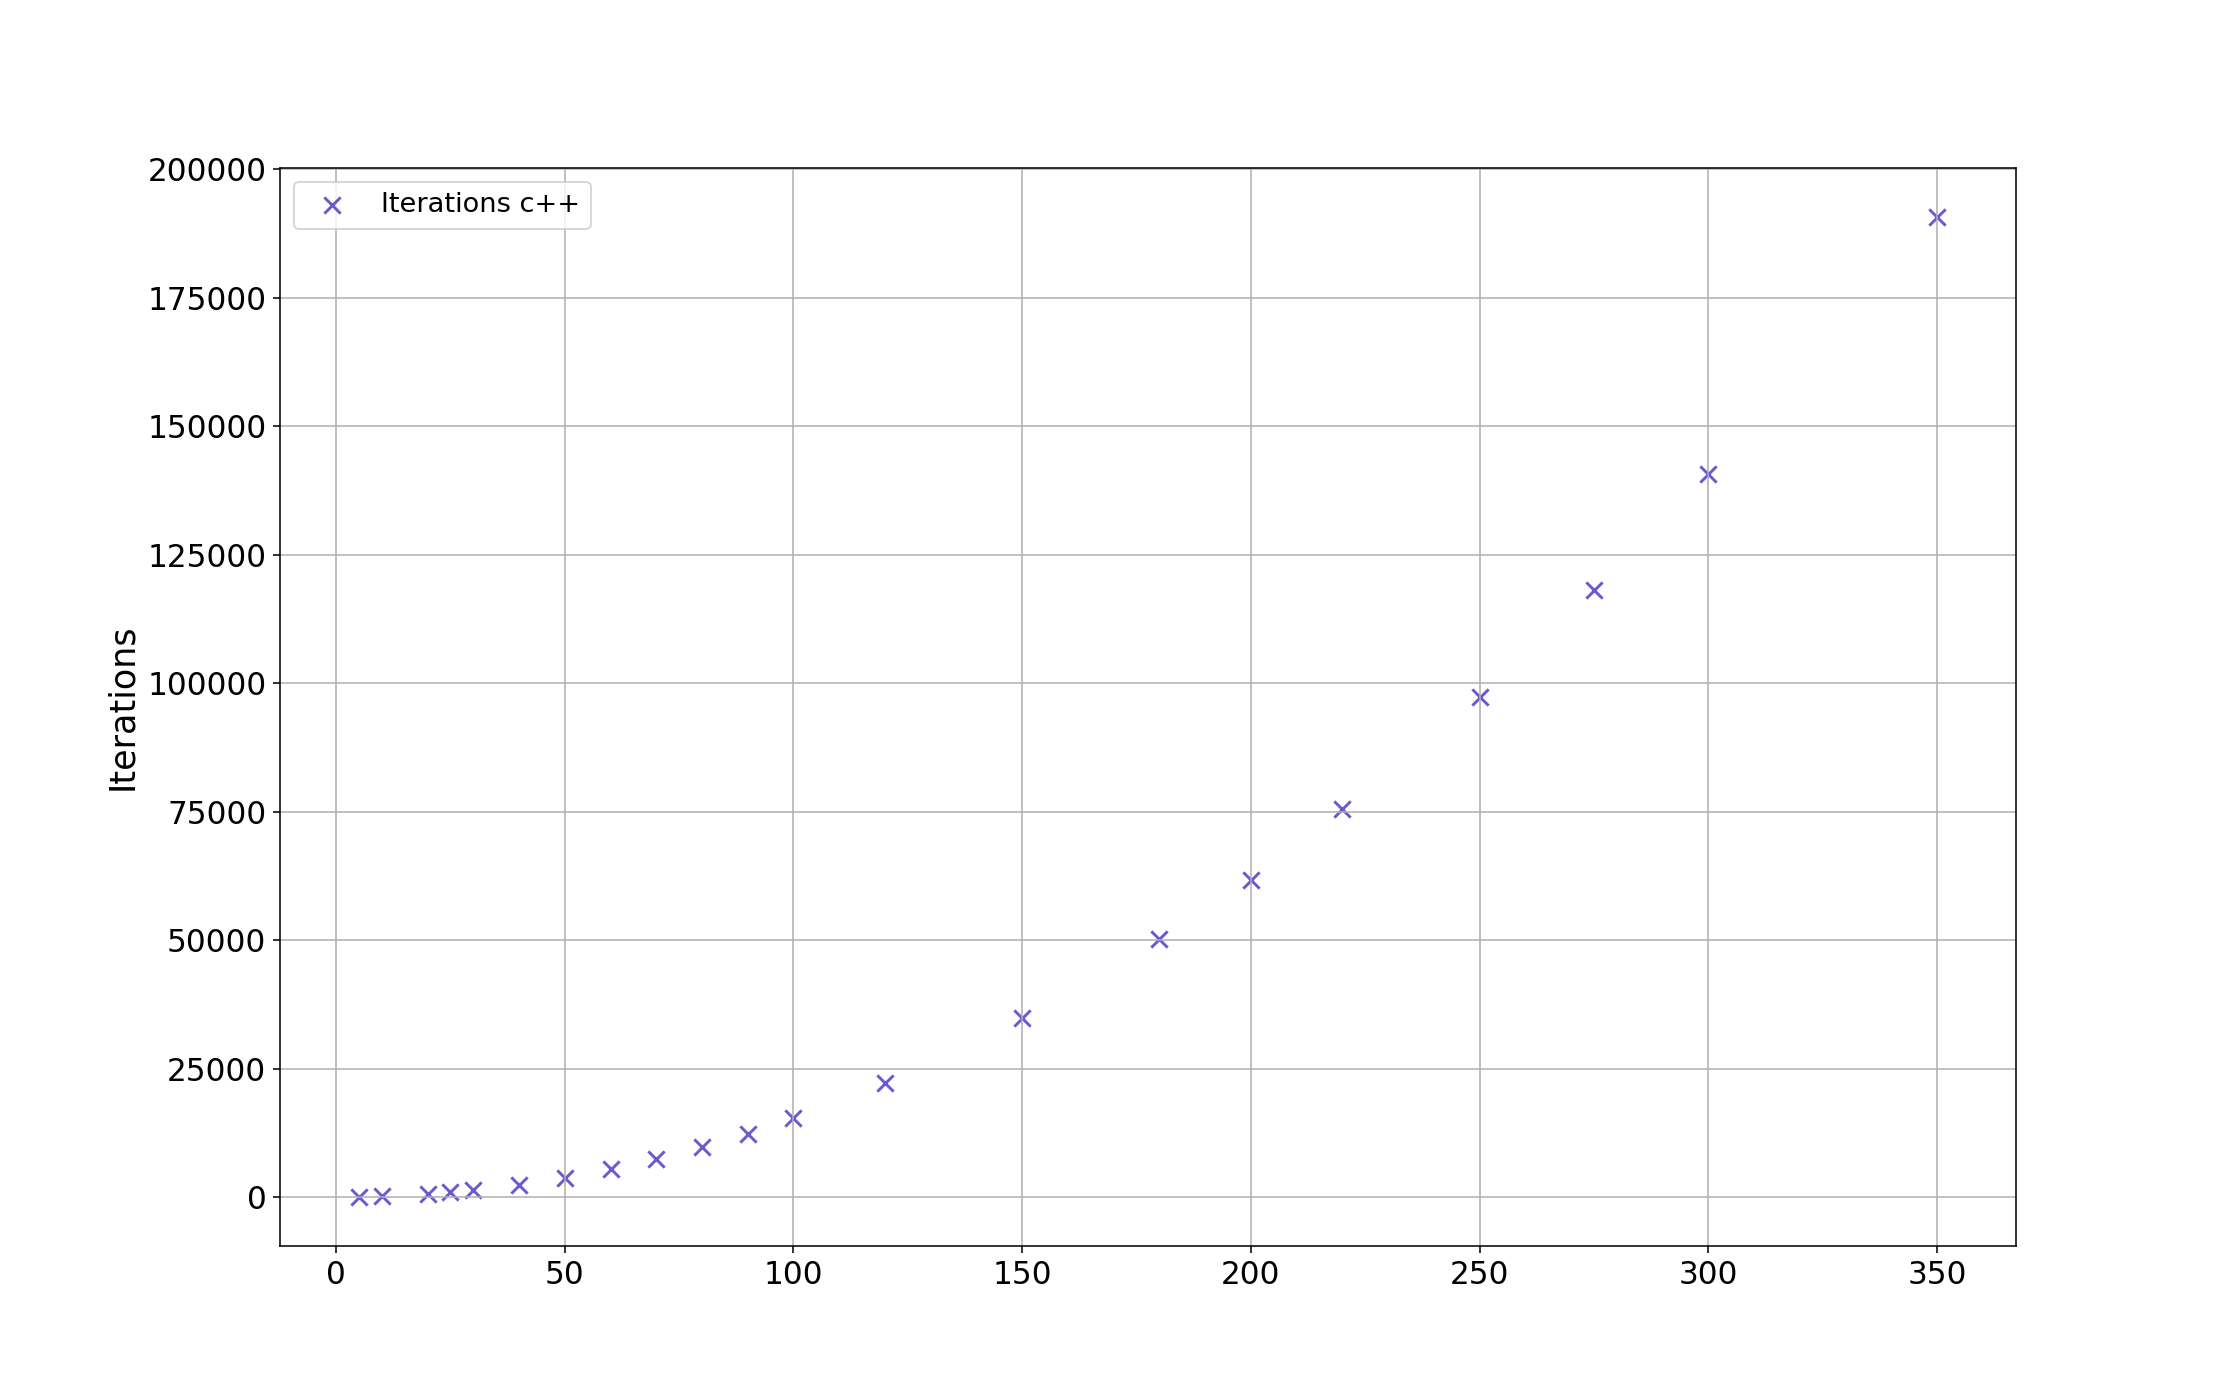
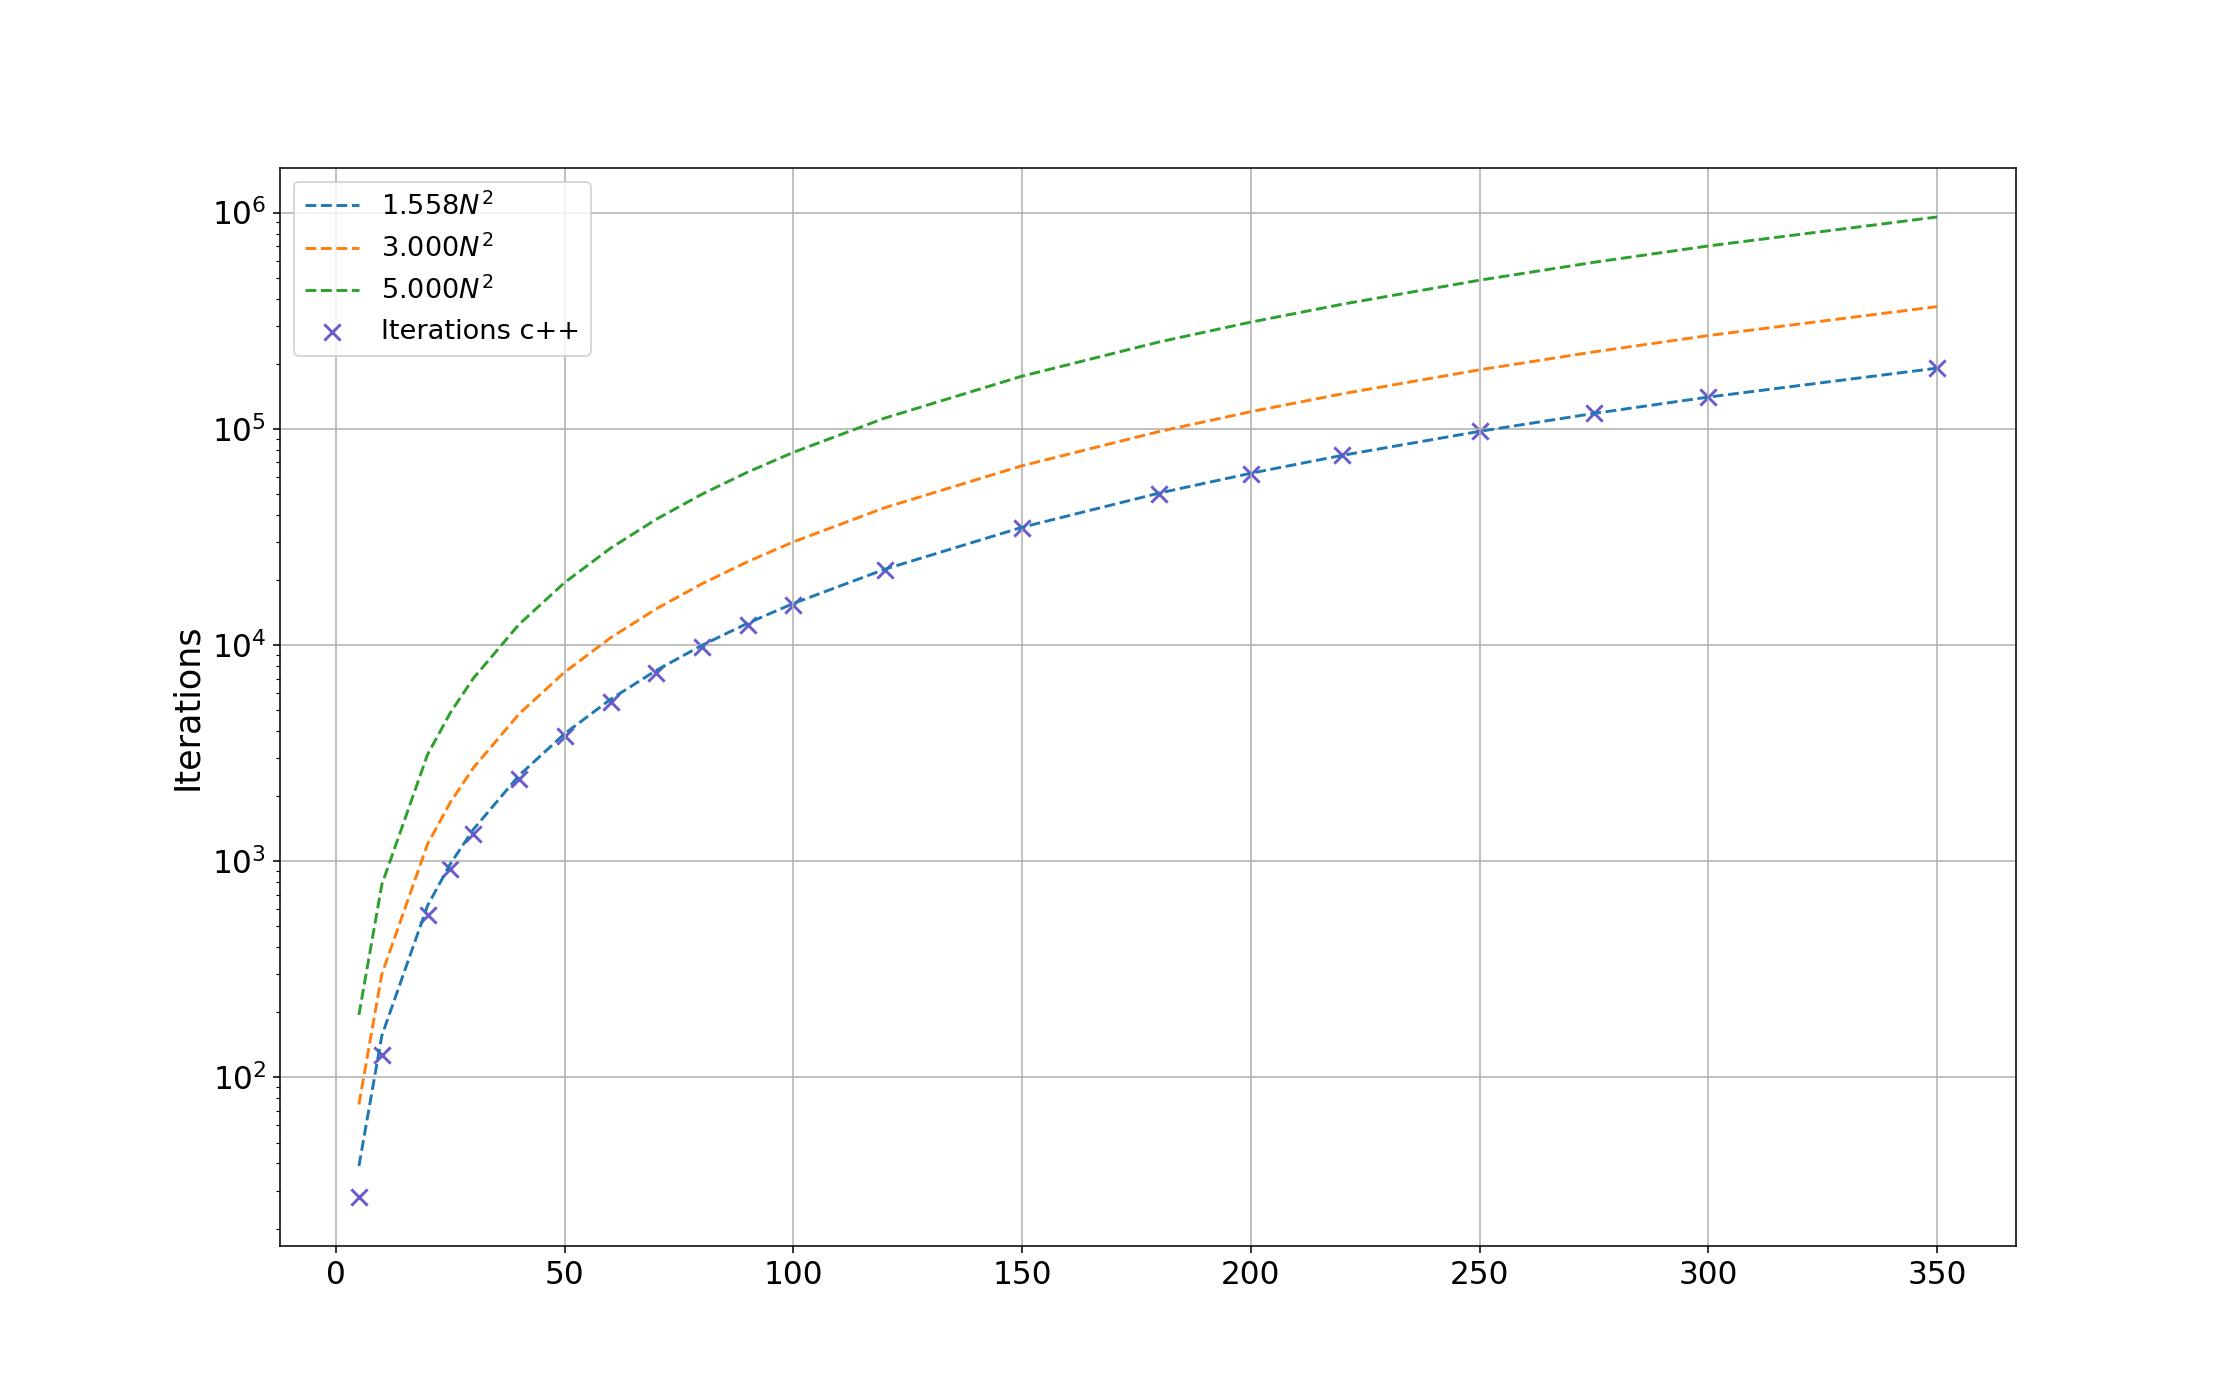
Writing on results and minor updates to postprocess.py

diff --git a/Project2/latex/results.tex b/Project2/latex/results.tex
@@ -3,16 +3,51 @@
 
 \subsection{Number of iterations}
 
+We will first look into the number of transformations needed to make all off
+diagonal elements smaller than the tolerance level $\epsilon$, in our case
+$\epsilon = 10^{-9}$, and find an estimate as a function of N, with N being the
+dimension of the square matrix we are diagonalizing. In this part we will
+analyze the results from the c++ implementation of Jacobis method, and compare
+our results with results from the literature of between 3N$^2$ - 5N$^2$
+transformations.
+
+(ref compendium p. 217)
+
+To look into the N dependence \cref{fig:iterations_scaled} shows the number of
+transformations scaled by N$^2$. The ratio flattens for N larger than 100. The
+horisontal line shows the mean value of the ratio for N larger than 200. Using
+the calculated mean value a possible equation for transformations as a function
+of N is $\#transformations = 1.56\cdot N^2$. \Cref{fig:iterations} shows the
+actual number of transformations, our estimated relation and the values from the literature.
+This seems to be a
+good fit to the data. Our results shows a faster convergence than the expected
+values, but we are unsure of the tolerance level that was used. If we used a
+lower tolerance our number of transformations would be higher.
+
+
 \begin{figure}[H]
   \centering
-  \includegraphics[width=0.66\textwidth]{../figures/iterations.png}
+  \includegraphics[width=1.0\textwidth]{../figures/iterations_compare_n2.png}
+  \caption{Runs of the Jacobi method implemented in c++. Number of iterations
+  needed to make all offdiagonal elements smaller than 10$^{-9}$ as function of
+  matrix size N. The horisontal line shows the mean value of iterations for
+  N $\geq$ 200.}
+
+  \label{fig:iterations_scaled}
+\end{figure}
+
+
+\begin{figure}[H]
+  \centering
+  \includegraphics[width=1.0\textwidth]{../figures/iterations.png}
 
   \caption{Runs of the Jacobi method implemented in c++. Number of iterations
-  needed to make all offdiagonal elements smaller than 10$^{-8}$ as function of
-  matrix size n.}
+  needed to make all offdiagonal elements smaller than 10$^{-9}$ as function of
+  matrix size N.}
 
   \label{fig:iterations}
 \end{figure}
+
 
 \subsection{Timing Result}
 

diff --git a/Project2/src/post_process.py b/Project2/src/post_process.py
@@ -113,12 +113,18 @@ plt.clf()
 
 
 # Number of iterations
-plt.scatter(df.index ,df['iterations'], marker='x', s=70, color='slateblue')
-# plt.plot(df.index, mean*df.index**2, label='{:.3f}n^2'.format(mean),linestyle='--')
+label_mean = r'${:.3f}N^2$'.format(mean)
+label_five = r'${:.3f}N^2$'.format(5)
+label_three = r'${:.3f}N^2$'.format(3)
+plt.scatter(df.index ,df['iterations'], marker='x', s=70, color='slateblue', label='Iterations c++')
+plt.plot(df.index, mean*df.index**2,linestyle='--', label=label_mean)
+plt.plot(df.index, 3*df.index**2,linestyle='--', label=label_three)
+plt.plot(df.index, 5*mean*df.index**2,linestyle='--', label=label_five)
+
 plt.grid()
 plt.ylabel('Iterations')
-plt.legend(['Iterations c++'])
-# ax = plt.gca()
-# ax.set_yscale('log')
+plt.legend()
+ax = plt.gca()
+ax.set_yscale('log')
 plt.savefig(PLOTDIR+'iterations.png')
 plt.clf()
